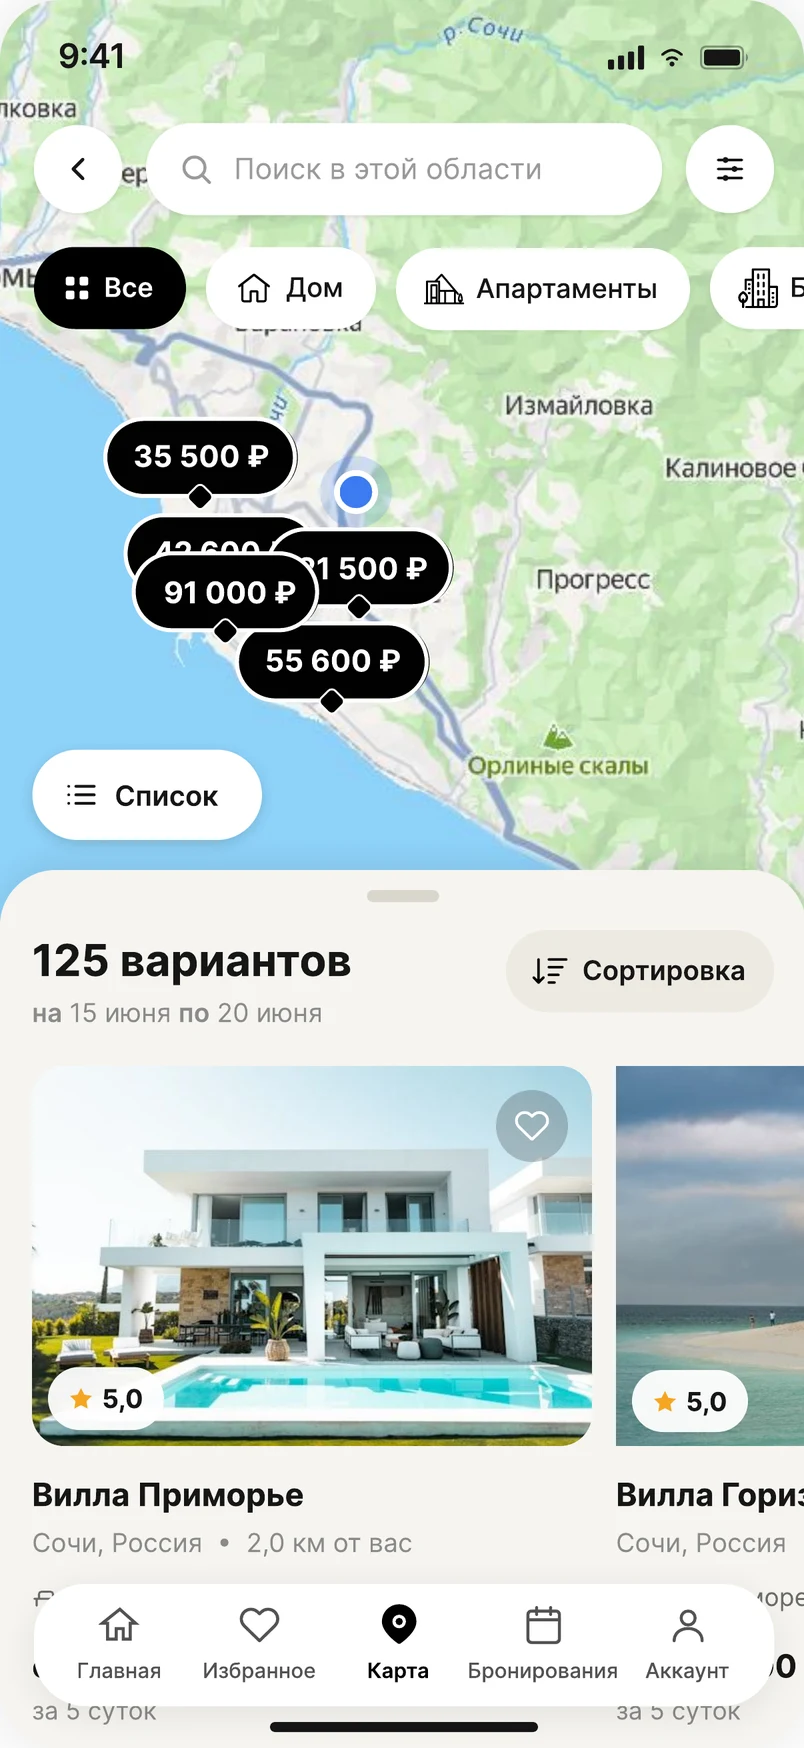
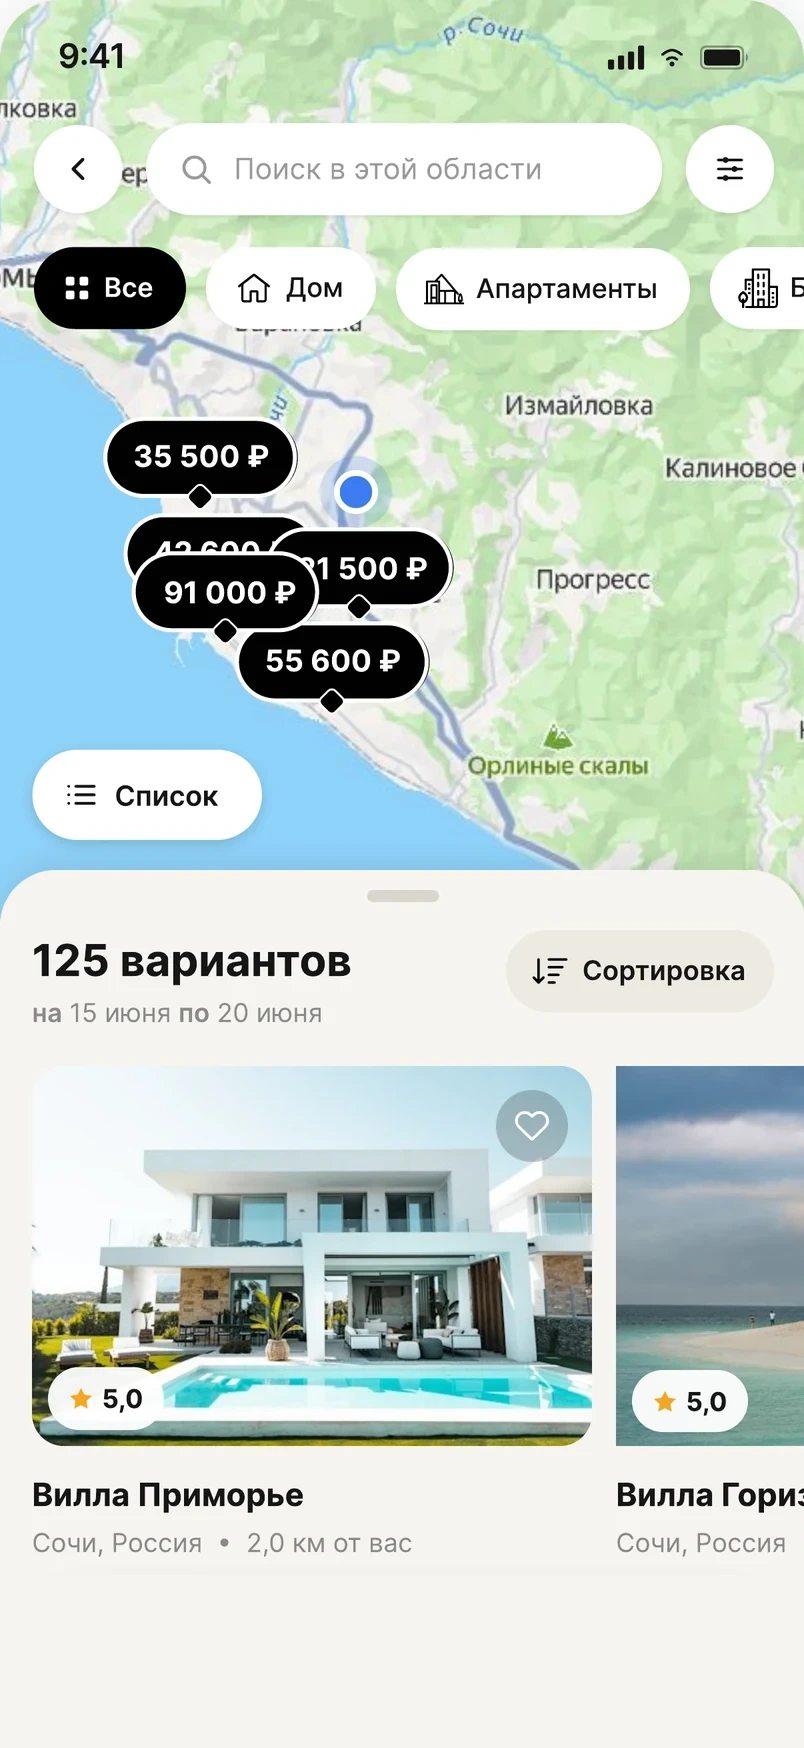
Убрана дублирующая нижняя панель на экране карты
Claude-Session: https://claude.ai/code/session_01F3YvQhaftnGhsj9cgHaCEe

diff --git a/index.html b/index.html
@@ -412,7 +412,7 @@ body { margin: 0; }
       <div class="rail phones" aria-label="Экраны приложения">
         <figure class="ph"><div class="shell"><div class="dev long" tabindex="0" aria-label="Экран прокручивается"><img src="img/c1-01.webp" width="804" height="2598" loading="lazy" alt="Экран приложения: главная"></div><img class="nav-fix" src="img/c1-nav-01.webp" alt="" aria-hidden="true"><i class="isl"></i><button type="button" class="zoom-btn-bar zb" aria-label="Открыть крупнее" data-long="1" data-nav="img/c1-nav-01.webp" data-src="img/c1-01.webp" data-cap="Главная"><svg width="16" height="16" viewBox="0 0 16 16" aria-hidden="true"><path d="M9.5 2H14v4.5M6.5 14H2V9.5M14 2 9 7M2 14l5-5" fill="none" stroke="currentColor" stroke-width="1.6" stroke-linecap="round" stroke-linejoin="round"/></svg></button></div><figcaption>Главная</figcaption></figure>
         <figure class="ph"><div class="shell"><div class="dev long" tabindex="0" aria-label="Экран прокручивается"><img src="img/c1-03.webp" width="804" height="2028" loading="lazy" alt="Экран приложения: фильтры целиком"></div><img class="nav-fix" src="img/c1-nav-03.webp" alt="" aria-hidden="true"><i class="isl"></i><button type="button" class="zoom-btn-bar zb" aria-label="Открыть крупнее" data-long="1" data-nav="img/c1-nav-03.webp" data-src="img/c1-03.webp" data-cap="Фильтры"><svg width="16" height="16" viewBox="0 0 16 16" aria-hidden="true"><path d="M9.5 2H14v4.5M6.5 14H2V9.5M14 2 9 7M2 14l5-5" fill="none" stroke="currentColor" stroke-width="1.6" stroke-linecap="round" stroke-linejoin="round"/></svg></button></div><figcaption>Фильтры</figcaption></figure>
-        <figure class="ph"><div class="shell"><div class="dev"><img src="img/c1-04.webp" width="804" height="1748" loading="lazy" alt="Экран приложения: карта со списком вариантов"></div><i class="isl"></i><button type="button" class="zoom-btn-bar zb" aria-label="Открыть крупнее" data-long="1" data-nav="img/c1-nav-04.webp" data-src="img/c1-04.webp" data-cap="Карта и список"><svg width="16" height="16" viewBox="0 0 16 16" aria-hidden="true"><path d="M9.5 2H14v4.5M6.5 14H2V9.5M14 2 9 7M2 14l5-5" fill="none" stroke="currentColor" stroke-width="1.6" stroke-linecap="round" stroke-linejoin="round"/></svg></button></div><figcaption>Карта и список</figcaption></figure>
+        <figure class="ph"><div class="shell"><div class="dev"><img src="img/c1-04.webp" width="804" height="1748" loading="lazy" alt="Экран приложения: карта со списком вариантов"></div><img class="nav-fix" src="img/c1-nav-04.webp" alt="" aria-hidden="true"><i class="isl"></i><button type="button" class="zoom-btn-bar zb" aria-label="Открыть крупнее" data-long="1" data-nav="img/c1-nav-04.webp" data-src="img/c1-04.webp" data-cap="Карта и список"><svg width="16" height="16" viewBox="0 0 16 16" aria-hidden="true"><path d="M9.5 2H14v4.5M6.5 14H2V9.5M14 2 9 7M2 14l5-5" fill="none" stroke="currentColor" stroke-width="1.6" stroke-linecap="round" stroke-linejoin="round"/></svg></button></div><figcaption>Карта и список</figcaption></figure>
         <figure class="ph"><div class="shell"><div class="dev long" tabindex="0" aria-label="Экран прокручивается"><img src="img/c1-06.webp" width="804" height="2274" loading="lazy" alt="Экран приложения: карточка объекта целиком"></div><img class="nav-fix" src="img/c1-nav-06.webp" alt="" aria-hidden="true"><i class="isl"></i><button type="button" class="zoom-btn-bar zb" aria-label="Открыть крупнее" data-long="1" data-nav="img/c1-nav-06.webp" data-src="img/c1-06.webp" data-cap="Карточка объекта"><svg width="16" height="16" viewBox="0 0 16 16" aria-hidden="true"><path d="M9.5 2H14v4.5M6.5 14H2V9.5M14 2 9 7M2 14l5-5" fill="none" stroke="currentColor" stroke-width="1.6" stroke-linecap="round" stroke-linejoin="round"/></svg></button></div><figcaption>Карточка объекта</figcaption></figure>
         <figure class="ph"><div class="shell"><div class="dev long" tabindex="0" aria-label="Экран прокручивается"><img src="img/c1-08.webp" width="804" height="2522" loading="lazy" alt="Экран приложения: даты, детали и оплата"></div><img class="nav-fix" src="img/c1-nav-08.webp" alt="" aria-hidden="true"><i class="isl"></i><button type="button" class="zoom-btn-bar zb" aria-label="Открыть крупнее" data-long="1" data-nav="img/c1-nav-08.webp" data-src="img/c1-08.webp" data-cap="Даты и оплата"><svg width="16" height="16" viewBox="0 0 16 16" aria-hidden="true"><path d="M9.5 2H14v4.5M6.5 14H2V9.5M14 2 9 7M2 14l5-5" fill="none" stroke="currentColor" stroke-width="1.6" stroke-linecap="round" stroke-linejoin="round"/></svg></button></div><figcaption>Даты и оплата</figcaption></figure>
         <figure class="ph"><div class="shell"><div class="dev long" tabindex="0" aria-label="Экран прокручивается"><img src="img/c1-10.webp" width="804" height="2896" loading="lazy" alt="Экран приложения: аккаунт целиком"></div><img class="nav-fix" src="img/c1-nav-10.webp" alt="" aria-hidden="true"><i class="isl"></i><button type="button" class="zoom-btn-bar zb" aria-label="Открыть крупнее" data-long="1" data-nav="img/c1-nav-10.webp" data-src="img/c1-10.webp" data-cap="Аккаунт"><svg width="16" height="16" viewBox="0 0 16 16" aria-hidden="true"><path d="M9.5 2H14v4.5M6.5 14H2V9.5M14 2 9 7M2 14l5-5" fill="none" stroke="currentColor" stroke-width="1.6" stroke-linecap="round" stroke-linejoin="round"/></svg></button></div><figcaption>Аккаунт</figcaption></figure>
